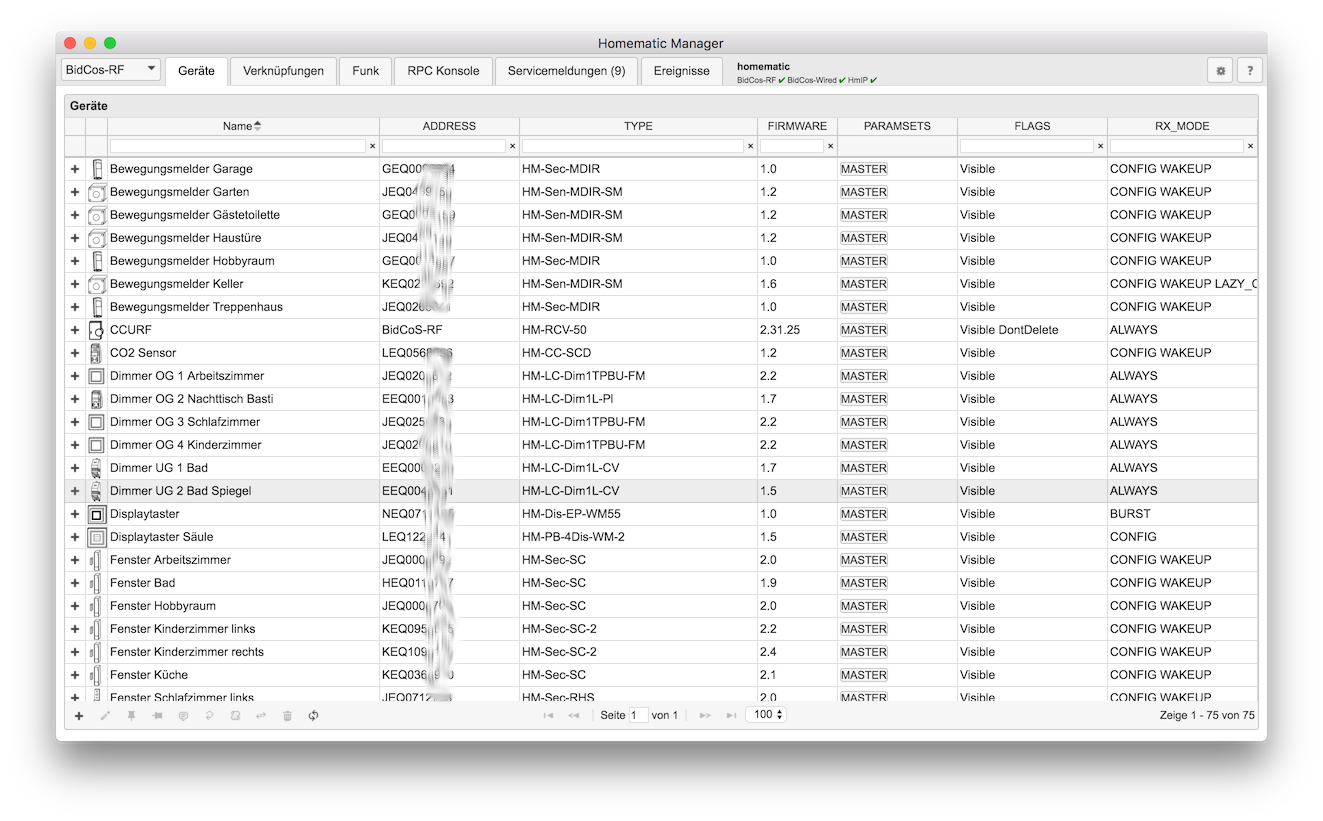
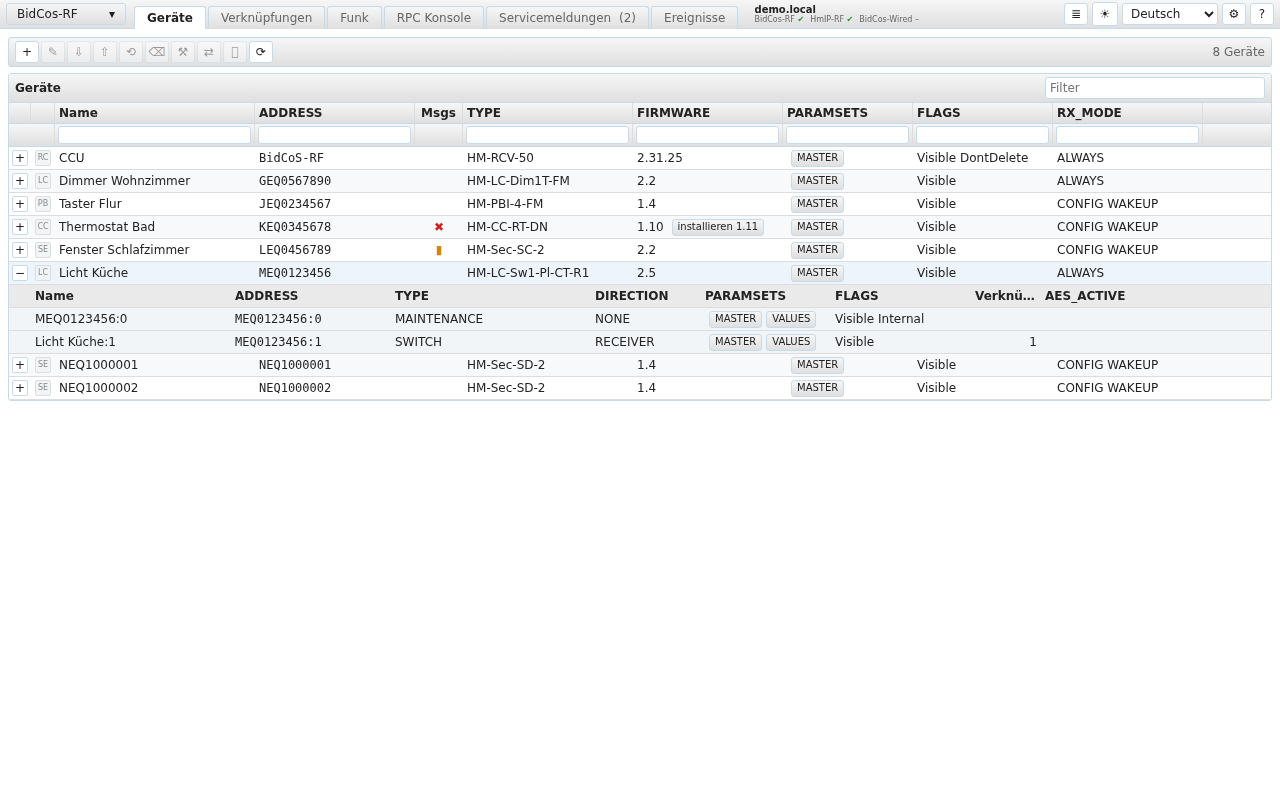
docs: 3.0 screenshots, taken from the demo mode instead of drawn
The three images the README shows were still from 2.7. They are now produced by
`tools/screenshots.mjs` (`npm run screenshots`), which starts `apps/web` in `--demo` mode - the UI
on its MockTransport fixture, no backend and no CCU, so two runs on two machines give the same
picture - and drives chromium through the three workflows the README wants to show: the Devices
tab with a channel sub-grid open, the paramset editor with the write preview on top of it (the
"only what changed is written" of task 6, visible as the putParamset line), and the Links tab with
the easy-mode dialog on a profile.

Each shot is taken twice, in the light and in the dark theme, because D-22 made dark mode a
requirement and a README that only shows one of them says nothing about the other. The dark
variants sit next to the light ones in a two-column table.

1280x800 at scale 1, German (the fixture is `language: de` and the README is German). Neither
oxipng nor pngquant is installed here, so the PNGs are as chromium wrote them; the script uses
whichever it finds and fails when a file goes over the 300 kB budget. They are far under it: the
six files are 86-115 kB, where the three 2.7 images were 296-403 kB.

The eslint block for the file is not a suppression: two of its callbacks are serialised into the
browser by Playwright, so `document` and `window` really are defined where they are used.

diff --git a/eslint.config.js b/eslint.config.js
@@ -158,4 +158,14 @@ export default tseslint.config(
             '@typescript-eslint/require-await': 'off',
         },
     },
+    {
+        // The screenshot script is a Node program that also ships two callbacks into the browser
+        // (`page.evaluate`, `addInitScript`). Those bodies are serialised and run in chromium, so
+        // `document` and `window` are defined exactly where they are used - and nowhere else in
+        // the file. Both global sets, rather than a suppression on each line.
+        files: ['tools/screenshots.mjs'],
+        languageOptions: {
+            globals: {...globals.node, ...globals.browser},
+        },
+    },
 );

diff --git a/Readme.md b/Readme.md
@@ -24,12 +24,16 @@ Eine ausführliche Beschreibung der 2.x-Oberfläche steht im
 > gelaufen. Die Downloads und Kommandos unten beschreiben, was 3.0 ausliefert; verfügbar sind sie
 > erst mit dem ersten Tag. Der Plan dazu: [ROADMAP.md](ROADMAP.md).
 
-![](docs/hmm1.png)
-![](docs/hmm2.png)
-![](docs/hmm3.png)
+| hell | dunkel (D-22) |
+| --- | --- |
+| [![Geräte](docs/hmm1.png)](docs/hmm1.png) | [![Geräte, dunkel](docs/hmm1-dark.png)](docs/hmm1-dark.png) |
+| [![Paramset-Editor mit Vorschau](docs/hmm2.png)](docs/hmm2.png) | [![Paramset-Editor mit Vorschau, dunkel](docs/hmm2-dark.png)](docs/hmm2-dark.png) |
+| [![Verknüpfungen](docs/hmm3.png)](docs/hmm3.png) | [![Verknüpfungen, dunkel](docs/hmm3-dark.png)](docs/hmm3-dark.png) |
 
-_Die Screenshots zeigen 2.7. Der Aufbau bleibt in 3.0 gleich — gleiche Tabs, gleiche Tabellen,
-gleiche Dialoge, nur neu implementiert (D-3). Aktuelle Screenshots kommen mit dem Beta-Zyklus._
+_Oben die Geräteliste mit aufgeklappter Kanaltabelle, in der Mitte der Paramset-Editor mit der
+Schreibvorschau (es wird nur geschrieben, was geändert wurde), unten die Verknüpfungen mit dem
+Easy-Mode-Dialog. Die Bilder entstehen aus der laufenden 3.0-Oberfläche im Demo-Modus
+(`npm run screenshots`), nicht aus einer Installation — die Geräte darin sind erfunden._
 
 ## Installation
 

diff --git a/BUILD.md b/BUILD.md
@@ -72,6 +72,7 @@ At the root:
 | `npm run test:e2e`                    | Playwright against the web host (`--project=web`)                                                                                                                                                          |
 | `npm run test:e2e:electron`           | the Electron smoke suites                                                                                                                                                                                  |
 | `npm run coverage:report`             | merges the unit, component and e2e coverage into one report                                                                                                                                                |
+| `npm run screenshots`                 | the six README screenshots, from the UI in `--demo` mode; needs `npm run build` first ([`tools/screenshots.mjs`](tools/screenshots.mjs))                                                                   |
 | `npm run version:dev`                 | the version bump, see [below](#versioning-d-18)                                                                                                                                                            |
 
 Per workspace (`npm run <script> -w <package>`):

diff --git a/docs/README.md b/docs/README.md
@@ -58,5 +58,9 @@ through and why the token is still required behind it:
 
 ## Screenshots
 
-`hmm1.png`, `hmm2.png` and `hmm3.png` in this directory are the ones the README shows. They are
-still from 2.7; the layout is unchanged in 3.0 by design (D-3), and new ones come with the beta.
+`hmm1.png`, `hmm2.png` and `hmm3.png` in this directory are the ones the README shows, and
+`hmm1-dark.png`, `hmm2-dark.png`, `hmm3-dark.png` are the same three in the dark theme (D-22).
+They are taken from the running 3.0 UI by [`../tools/screenshots.mjs`](../tools/screenshots.mjs)
+(`npm run screenshots`), which starts `apps/web` in `--demo` mode and drives chromium through the
+three workflows at 1280×800 in German. Nothing in them comes from a real installation. Re-run the
+script rather than editing an image; the header of the script says what each shot shows.
